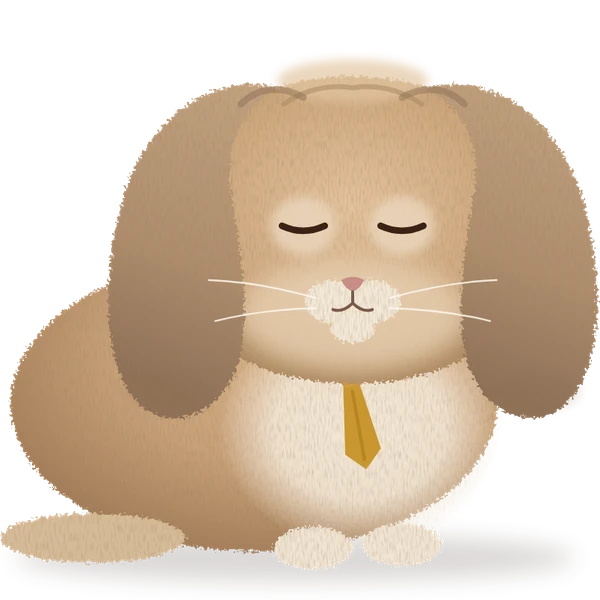
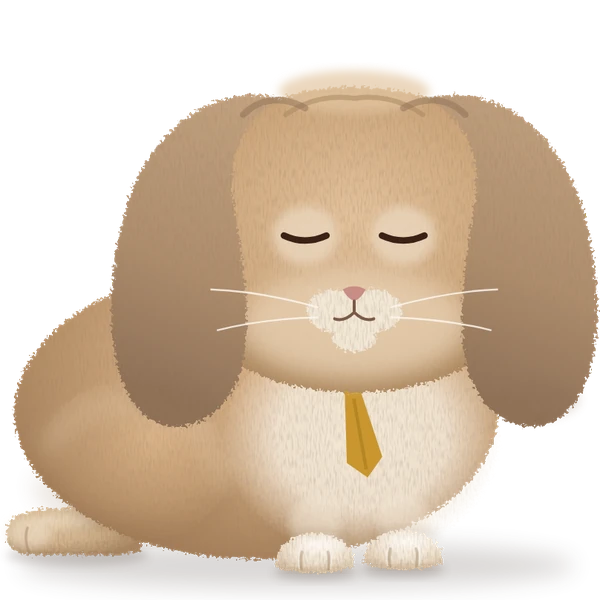
レンとジルの絵を、手足を作り込んだアニメの絵に入れ替え（キャラクター紹介・最初の画面・関係の図・3D の案内役・共有用の画像）／書き出しから変換までの道具 tools/char_from_rig.py
Claude-Session: https://claude.ai/code/session_01KYhWQVkUVFVXPun7Dy396r

diff --git a/tools/char_from_rig.py b/tools/char_from_rig.py
@@ -1,0 +1,23 @@
+#!/usr/bin/env python3
+"""アニメの道具（renjill-auto の rig/portraits.js）で書き出した PNG から、サイトのキャラクターの絵（img/char/*.webp、600×600）を作る。
+使い方：
+  cd renjill-auto && node rig/portraits.js /tmp/port
+  cd renjill-site && python3 tools/char_from_rig.py /tmp/port && python3 tools/make_g3d.py
+絵の置き方：見えている部分（影こみ）を切り出し、正方形のまん中・下ぞろえで 600×600 に（2026-11-15 に入れた絵と同じ置き方）。
+顔だけの小さな絵（*_head.webp）は足と関係がないので、ここでは作らない。
+"""
+import sys, os
+from PIL import Image
+src = sys.argv[1]
+ROOT = os.path.dirname(os.path.dirname(os.path.abspath(__file__)))
+NAME = {'ren': 'ren', 'jil': 'jill', 'pom': 'pom'}
+for fn in sorted(os.listdir(src)):
+    if not fn.endswith('.png'): continue
+    who, mood = fn[:-4].split('_', 1)
+    im = Image.open(os.path.join(src, fn)).convert('RGBA')
+    a = im.getchannel('A').point(lambda v: 255 if v > 6 else 0)
+    box = a.getbbox(); im = im.crop(box)
+    s = max(im.size); sq = Image.new('RGBA', (s, s), (0, 0, 0, 0)); sq.alpha_composite(im, ((s - im.size[0]) // 2, s - im.size[1]))
+    out = os.path.join(ROOT, 'img', 'char', f'{NAME[who]}_{mood}.webp')
+    sq.resize((600, 600), Image.LANCZOS).save(out, 'WEBP', quality=90, method=6)
+    print(out)
